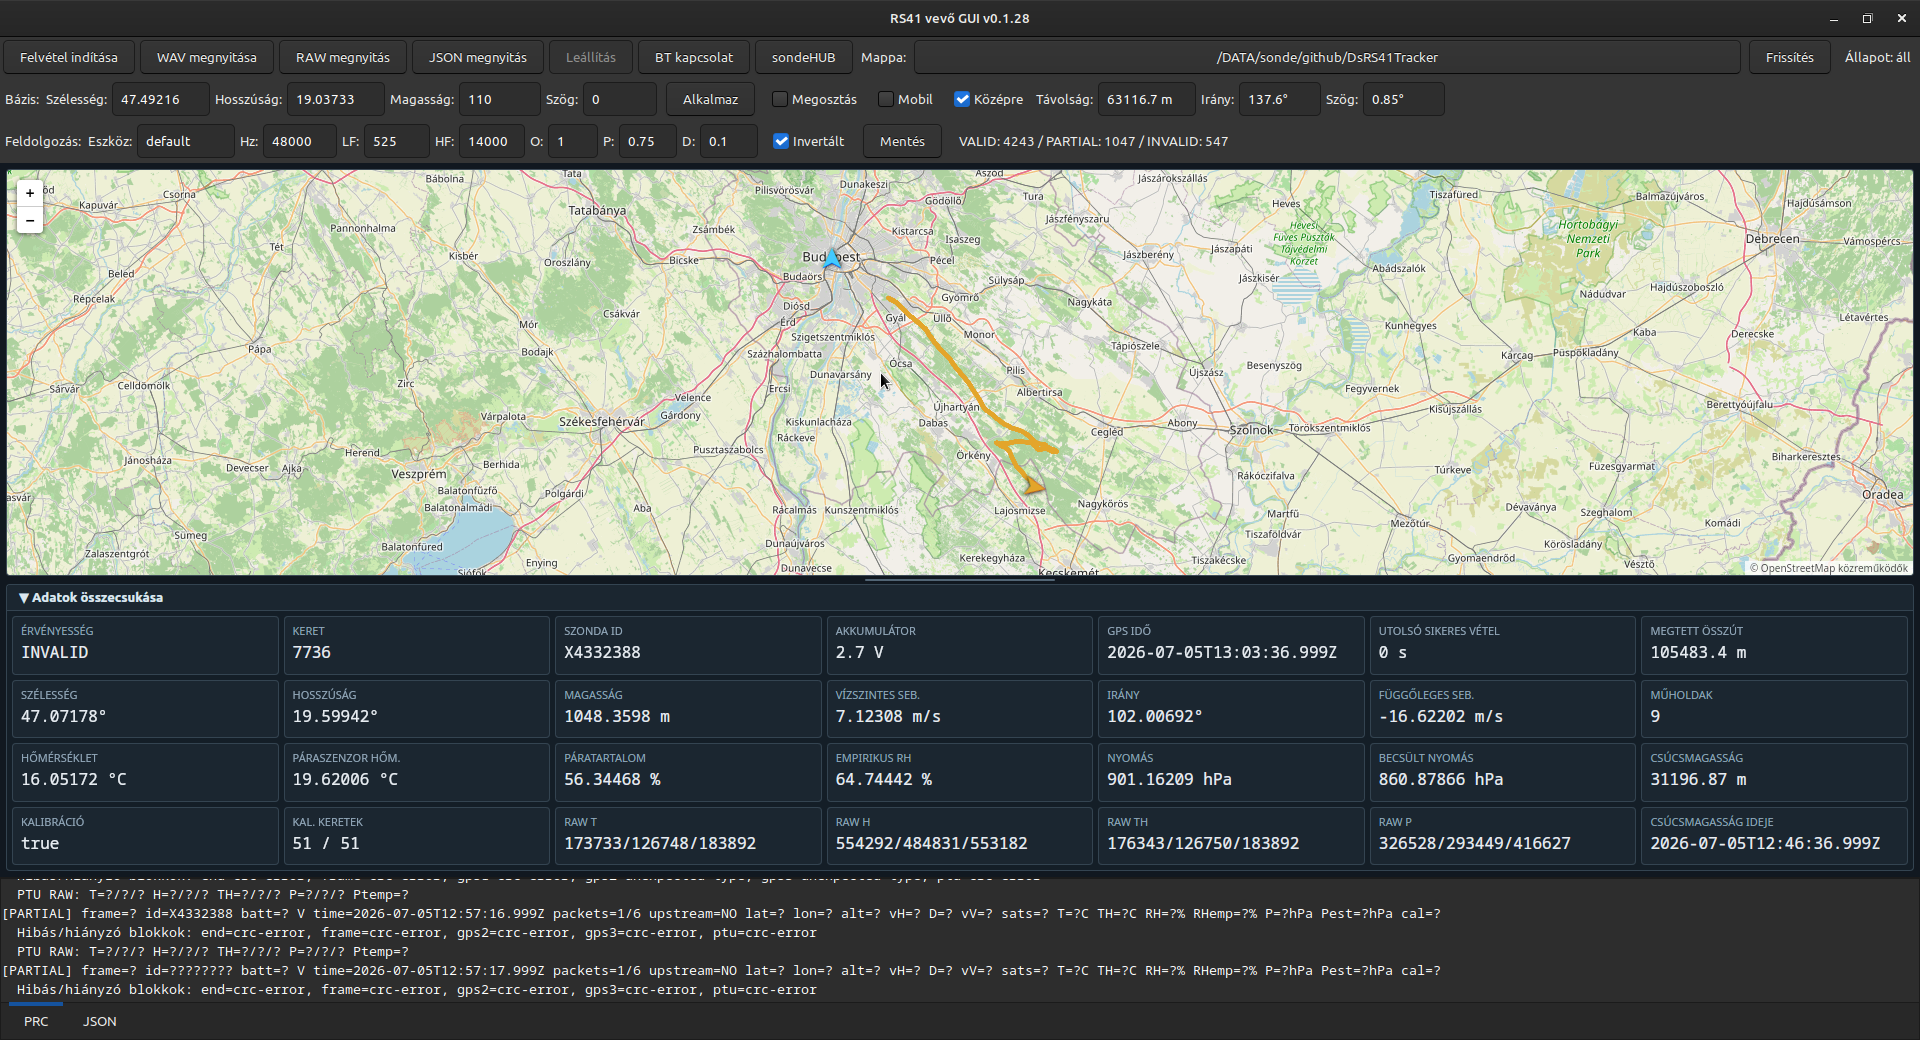
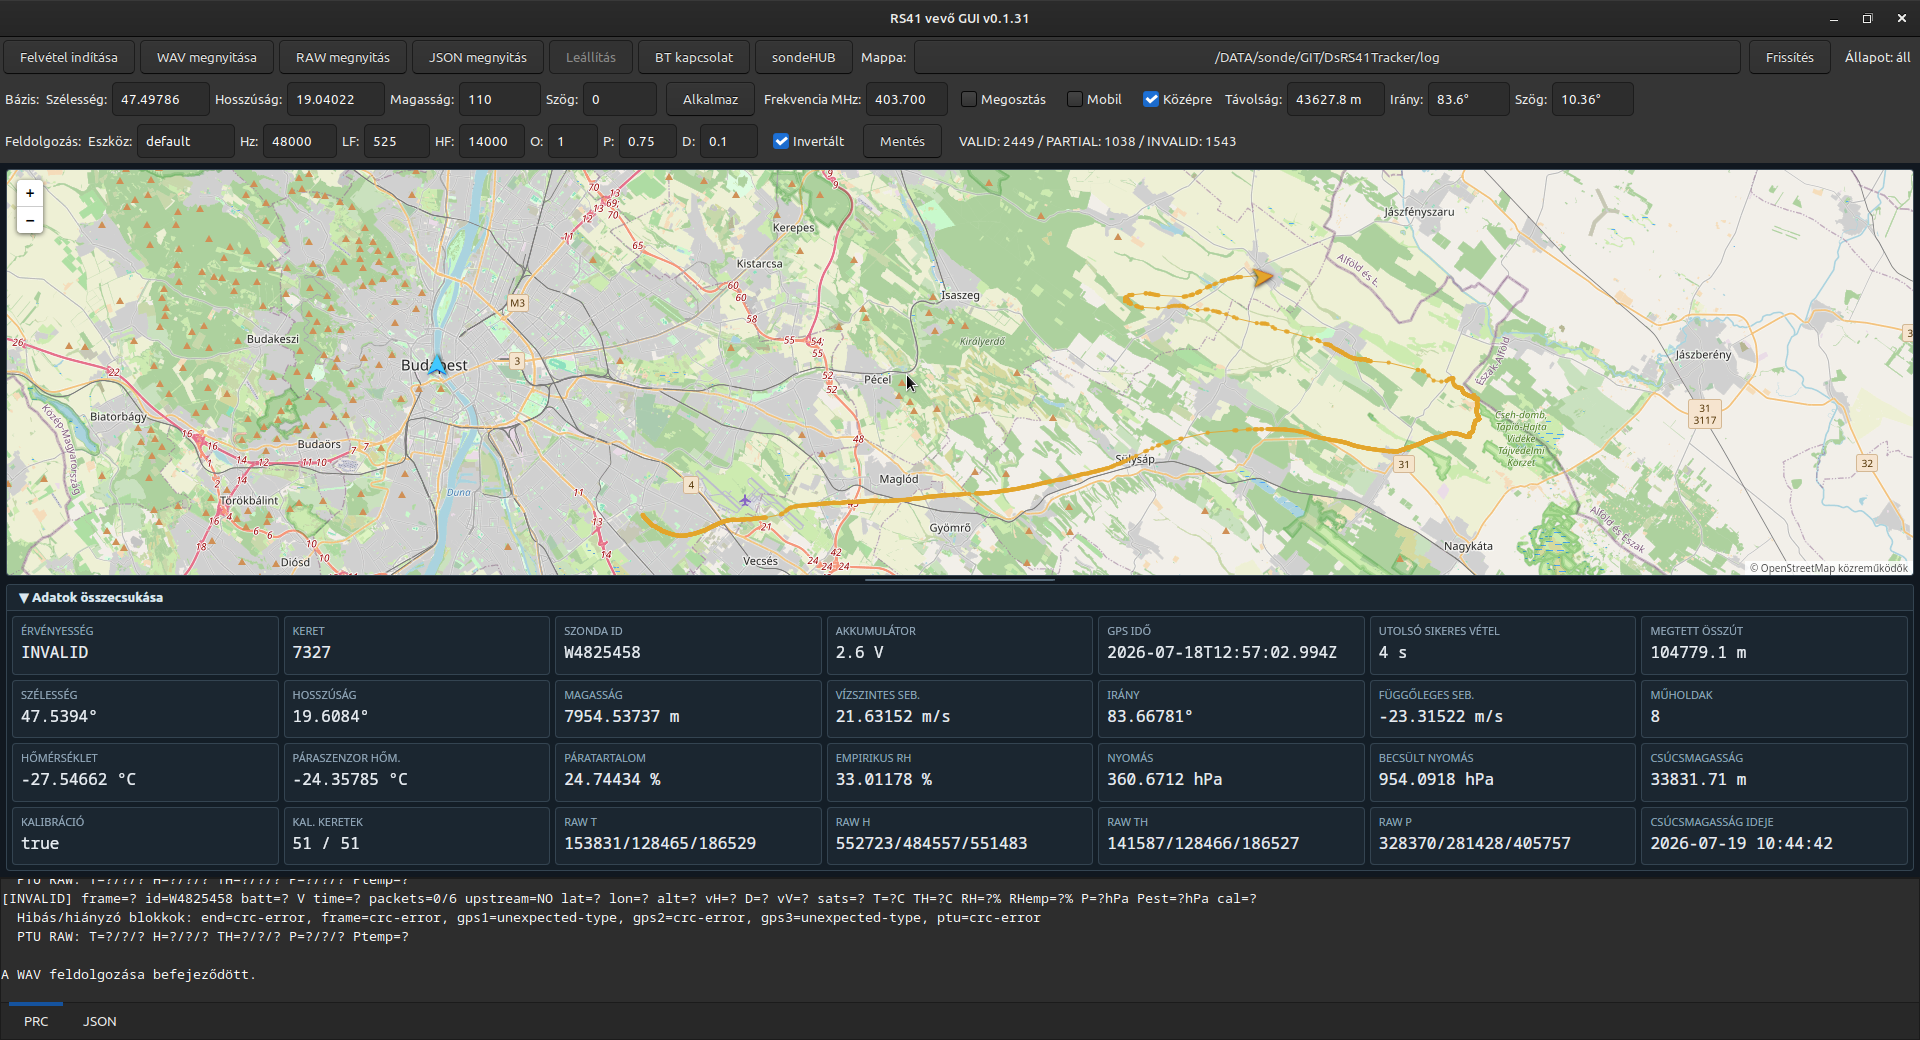
0.1.31

diff --git a/sondehub_mock_server.py b/sondehub_mock_server.py
@@ -1,79 +1,253 @@
 #!/usr/bin/env python3
 
+import argparse
 import gzip
 import json
+import sys
+from datetime import datetime
 from http.server import BaseHTTPRequestHandler, ThreadingHTTPServer
 from pathlib import Path
-from datetime import datetime
-
-HOST = "127.0.0.1"
-PORT = 8080
-LOG_DIR = Path("./mock-sondehub-log")
+from threading import Lock
+from typing import Any
 
 
-class Handler(BaseHTTPRequestHandler):
-	def do_PUT(self):
-		if self.path not in ("/sondes/telemetry", "/listeners"):
-			self.send_error(404, "Unknown endpoint")
-			return
+class SessionLogger:
+	def __init__(self, output_directory: Path) -> None:
+		self.output_directory = output_directory
+		self.output_directory.mkdir(parents=True, exist_ok=True)
 
-		length = int(self.headers.get("Content-Length", "0"))
-		body = self.rfile.read(length)
+		self.session_timestamp = datetime.now().strftime("%Y%m%d-%H%M%S")
+		self.telemetry_path = (
+			self.output_directory
+			/ f"telemetry_{self.session_timestamp}.json"
+		)
+		self.listener_path = (
+			self.output_directory
+			/ f"listener_{self.session_timestamp}.json"
+		)
 
-		if self.headers.get("Content-Encoding", "").lower() == "gzip":
-			try:
-				body = gzip.decompress(body)
-			except Exception as error:
-				self.send_error(400, f"Invalid gzip body: {error}")
-				return
+		self.lock = Lock()
+
+		# A két fájl már a szerver indulásakor létrejön.
+		self.telemetry_path.write_text("", encoding="utf-8")
+		self.listener_path.write_text("", encoding="utf-8")
+
+	def _request_timestamp(self) -> str:
+		return datetime.now().strftime("%Y%m%d-%H%M%S")
+
+	def append_telemetry_batch(self, payload: list[Any]) -> None:
+		timestamp = self._request_timestamp()
+
+		with self.lock:
+			with self.telemetry_path.open("a", encoding="utf-8") as handle:
+				handle.write(f"#{timestamp}\n")
+				handle.write("[\n")
+
+				for index, item in enumerate(payload):
+					line = json.dumps(
+						item,
+						ensure_ascii=False,
+						separators=(",", ": "),
+					)
+
+					if index + 1 < len(payload):
+						line += ","
+
+					handle.write(line + "\n")
+
+				handle.write("]\n")
+				handle.flush()
+
+	def append_listener(self, payload: dict[str, Any]) -> None:
+		timestamp = self._request_timestamp()
+		line = json.dumps(
+			payload,
+			ensure_ascii=False,
+			separators=(",", ": "),
+		)
+
+		with self.lock:
+			with self.listener_path.open("a", encoding="utf-8") as handle:
+				handle.write(f"#{timestamp}\n")
+				handle.write(line + "\n")
+				handle.flush()
+
+
+class MockSondeHubHandler(BaseHTTPRequestHandler):
+	server_version = "MockSondeHub/0.2"
+
+	def log_message(self, format_string: str, *args: Any) -> None:
+		sys.stdout.write(
+			"%s - - [%s] %s\n"
+			% (
+				self.client_address[0],
+				self.log_date_time_string(),
+				format_string % args,
+			)
+		)
+		sys.stdout.flush()
+
+	def _send_text(self, status_code: int, message: str) -> None:
+		body = (message + "\n").encode("utf-8")
+
+		self.send_response(status_code)
+		self.send_header("Content-Type", "text/plain; charset=utf-8")
+		self.send_header("Content-Length", str(len(body)))
+		self.end_headers()
+		self.wfile.write(body)
+
+	def _read_request_body(self) -> tuple[bytes, str]:
+		content_length_header = self.headers.get("Content-Length")
+
+		if content_length_header is None:
+			raise ValueError("Missing Content-Length header")
 
 		try:
-			payload = json.loads(body.decode("utf-8"))
+			content_length = int(content_length_header)
+		except ValueError as error:
+			raise ValueError("Invalid Content-Length header") from error
+
+		if content_length < 0:
+			raise ValueError("Invalid negative Content-Length")
+
+		body = self.rfile.read(content_length)
+		encoding = self.headers.get("Content-Encoding", "identity").strip().lower()
+
+		if encoding in ("", "identity"):
+			return body, "identity"
+
+		if encoding == "gzip":
+			try:
+				return gzip.decompress(body), "gzip"
+			except OSError as error:
+				raise ValueError(f"Invalid GZIP request body: {error}") from error
+
+		raise ValueError(f"Unsupported Content-Encoding: {encoding}")
+
+	def do_PUT(self) -> None:
+		try:
+			raw_body, content_encoding = self._read_request_body()
+
+			try:
+				payload = json.loads(raw_body.decode("utf-8"))
+			except UnicodeDecodeError as error:
+				raise ValueError(f"Request body is not valid UTF-8: {error}") from error
+			except json.JSONDecodeError as error:
+				raise ValueError(f"Invalid JSON: {error}") from error
+
+			if self.path == "/sondes/telemetry":
+				if not isinstance(payload, list):
+					raise ValueError(
+						"Telemetry payload must be a JSON array."
+					)
+
+				self.server.session_logger.append_telemetry_batch(payload)
+				self._send_text(200, "Mock SondeHub telemetry upload accepted")
+
+				print(
+					f"PUT {self.path} encoding={content_encoding} "
+					f"packets={len(payload)} "
+					f"saved={self.server.session_logger.telemetry_path}",
+					flush=True,
+				)
+				return
+
+			if self.path == "/listeners":
+				if not isinstance(payload, dict):
+					raise ValueError(
+						"Listener payload must be a JSON object."
+					)
+
+				self.server.session_logger.append_listener(payload)
+				self._send_text(200, "Mock SondeHub listener upload accepted")
+
+				print(
+					f"PUT {self.path} encoding={content_encoding} "
+					f"saved={self.server.session_logger.listener_path}",
+					flush=True,
+				)
+				return
+
+			self._send_text(404, f"Unknown endpoint: {self.path}")
+
+		except ValueError as error:
+			self._send_text(400, str(error))
+			print(
+				f"PUT {self.path} rejected: {error}",
+				file=sys.stderr,
+				flush=True,
+			)
 		except Exception as error:
-			self.send_error(400, f"Invalid JSON: {error}")
-			return
-
-		if self.path == "/sondes/telemetry" and not isinstance(payload, list):
-			self.send_error(400, "Telemetry payload must be a JSON array")
-			return
-
-		if self.path == "/listeners" and not isinstance(payload, dict):
-			self.send_error(400, "Listener payload must be a JSON object")
-			return
-
-		LOG_DIR.mkdir(parents=True, exist_ok=True)
-		name = "telemetry" if self.path == "/sondes/telemetry" else "listener"
-		stamp = datetime.now().strftime("%Y-%m-%d_%H-%M-%S_%f")
-		log_file = LOG_DIR / f"{stamp}_{name}.json"
-		log_file.write_text(
-			json.dumps(payload, ensure_ascii=False, indent=2, sort_keys=True) + "\n",
-			encoding="utf-8",
-		)
-
-		print(
-			f"{self.command} {self.path} "
-			f"encoding={self.headers.get('Content-Encoding', 'identity')} "
-			f"saved={log_file}"
-		)
-
-		response = b"Mock SondeHub upload accepted"
-		self.send_response(200)
-		self.send_header("Content-Type", "text/plain; charset=utf-8")
-		self.send_header("Content-Length", str(len(response)))
-		self.end_headers()
-		self.wfile.write(response)
-
-	def log_message(self, format, *args):
-		return
+			self._send_text(500, f"Internal mock server error: {error}")
+			print(
+				f"PUT {self.path} internal error: {error}",
+				file=sys.stderr,
+				flush=True,
+			)
 
 
-def main():
-	server = ThreadingHTTPServer((HOST, PORT), Handler)
-	print(f"Mock SondeHub API: http://{HOST}:{PORT}")
-	print("Telemetry: /sondes/telemetry")
-	print("Listener:  /listeners")
-	server.serve_forever()
+class MockSondeHubServer(ThreadingHTTPServer):
+	daemon_threads = True
+	allow_reuse_address = True
+
+	def __init__(
+		self,
+		server_address: tuple[str, int],
+		session_logger: SessionLogger,
+	) -> None:
+		super().__init__(server_address, MockSondeHubHandler)
+		self.session_logger = session_logger
+
+
+def parse_arguments() -> argparse.Namespace:
+	parser = argparse.ArgumentParser(
+		description="Local mock server for SondeHub telemetry and listener PUT requests."
+	)
+	parser.add_argument(
+		"--host",
+		default="127.0.0.1",
+		help="Bind address. Default: 127.0.0.1",
+	)
+	parser.add_argument(
+		"--port",
+		type=int,
+		default=8080,
+		help="TCP port. Default: 8080",
+	)
+	parser.add_argument(
+		"--output-directory",
+		default="./mock-sondehub-log",
+		help="Directory for the two session log files.",
+	)
+	return parser.parse_args()
+
+
+def main() -> int:
+	args = parse_arguments()
+	output_directory = Path(args.output_directory).expanduser().resolve()
+	session_logger = SessionLogger(output_directory)
+	server = MockSondeHubServer(
+		(args.host, args.port),
+		session_logger,
+	)
+
+
+	print(
+		f"Mock SondeHub server listening on http://{args.host}:{args.port}",
+		flush=True,
+	)
+	print(f"Telemetry log: {session_logger.telemetry_path}", flush=True)
+	print(f"Listener log:  {session_logger.listener_path}", flush=True)
+
+	try:
+		server.serve_forever()
+	except KeyboardInterrupt:
+		print("\nStopping server.", flush=True)
+	finally:
+		server.server_close()
+
+	return 0
 
 
 if __name__ == "__main__":
-	main()
+	raise SystemExit(main())